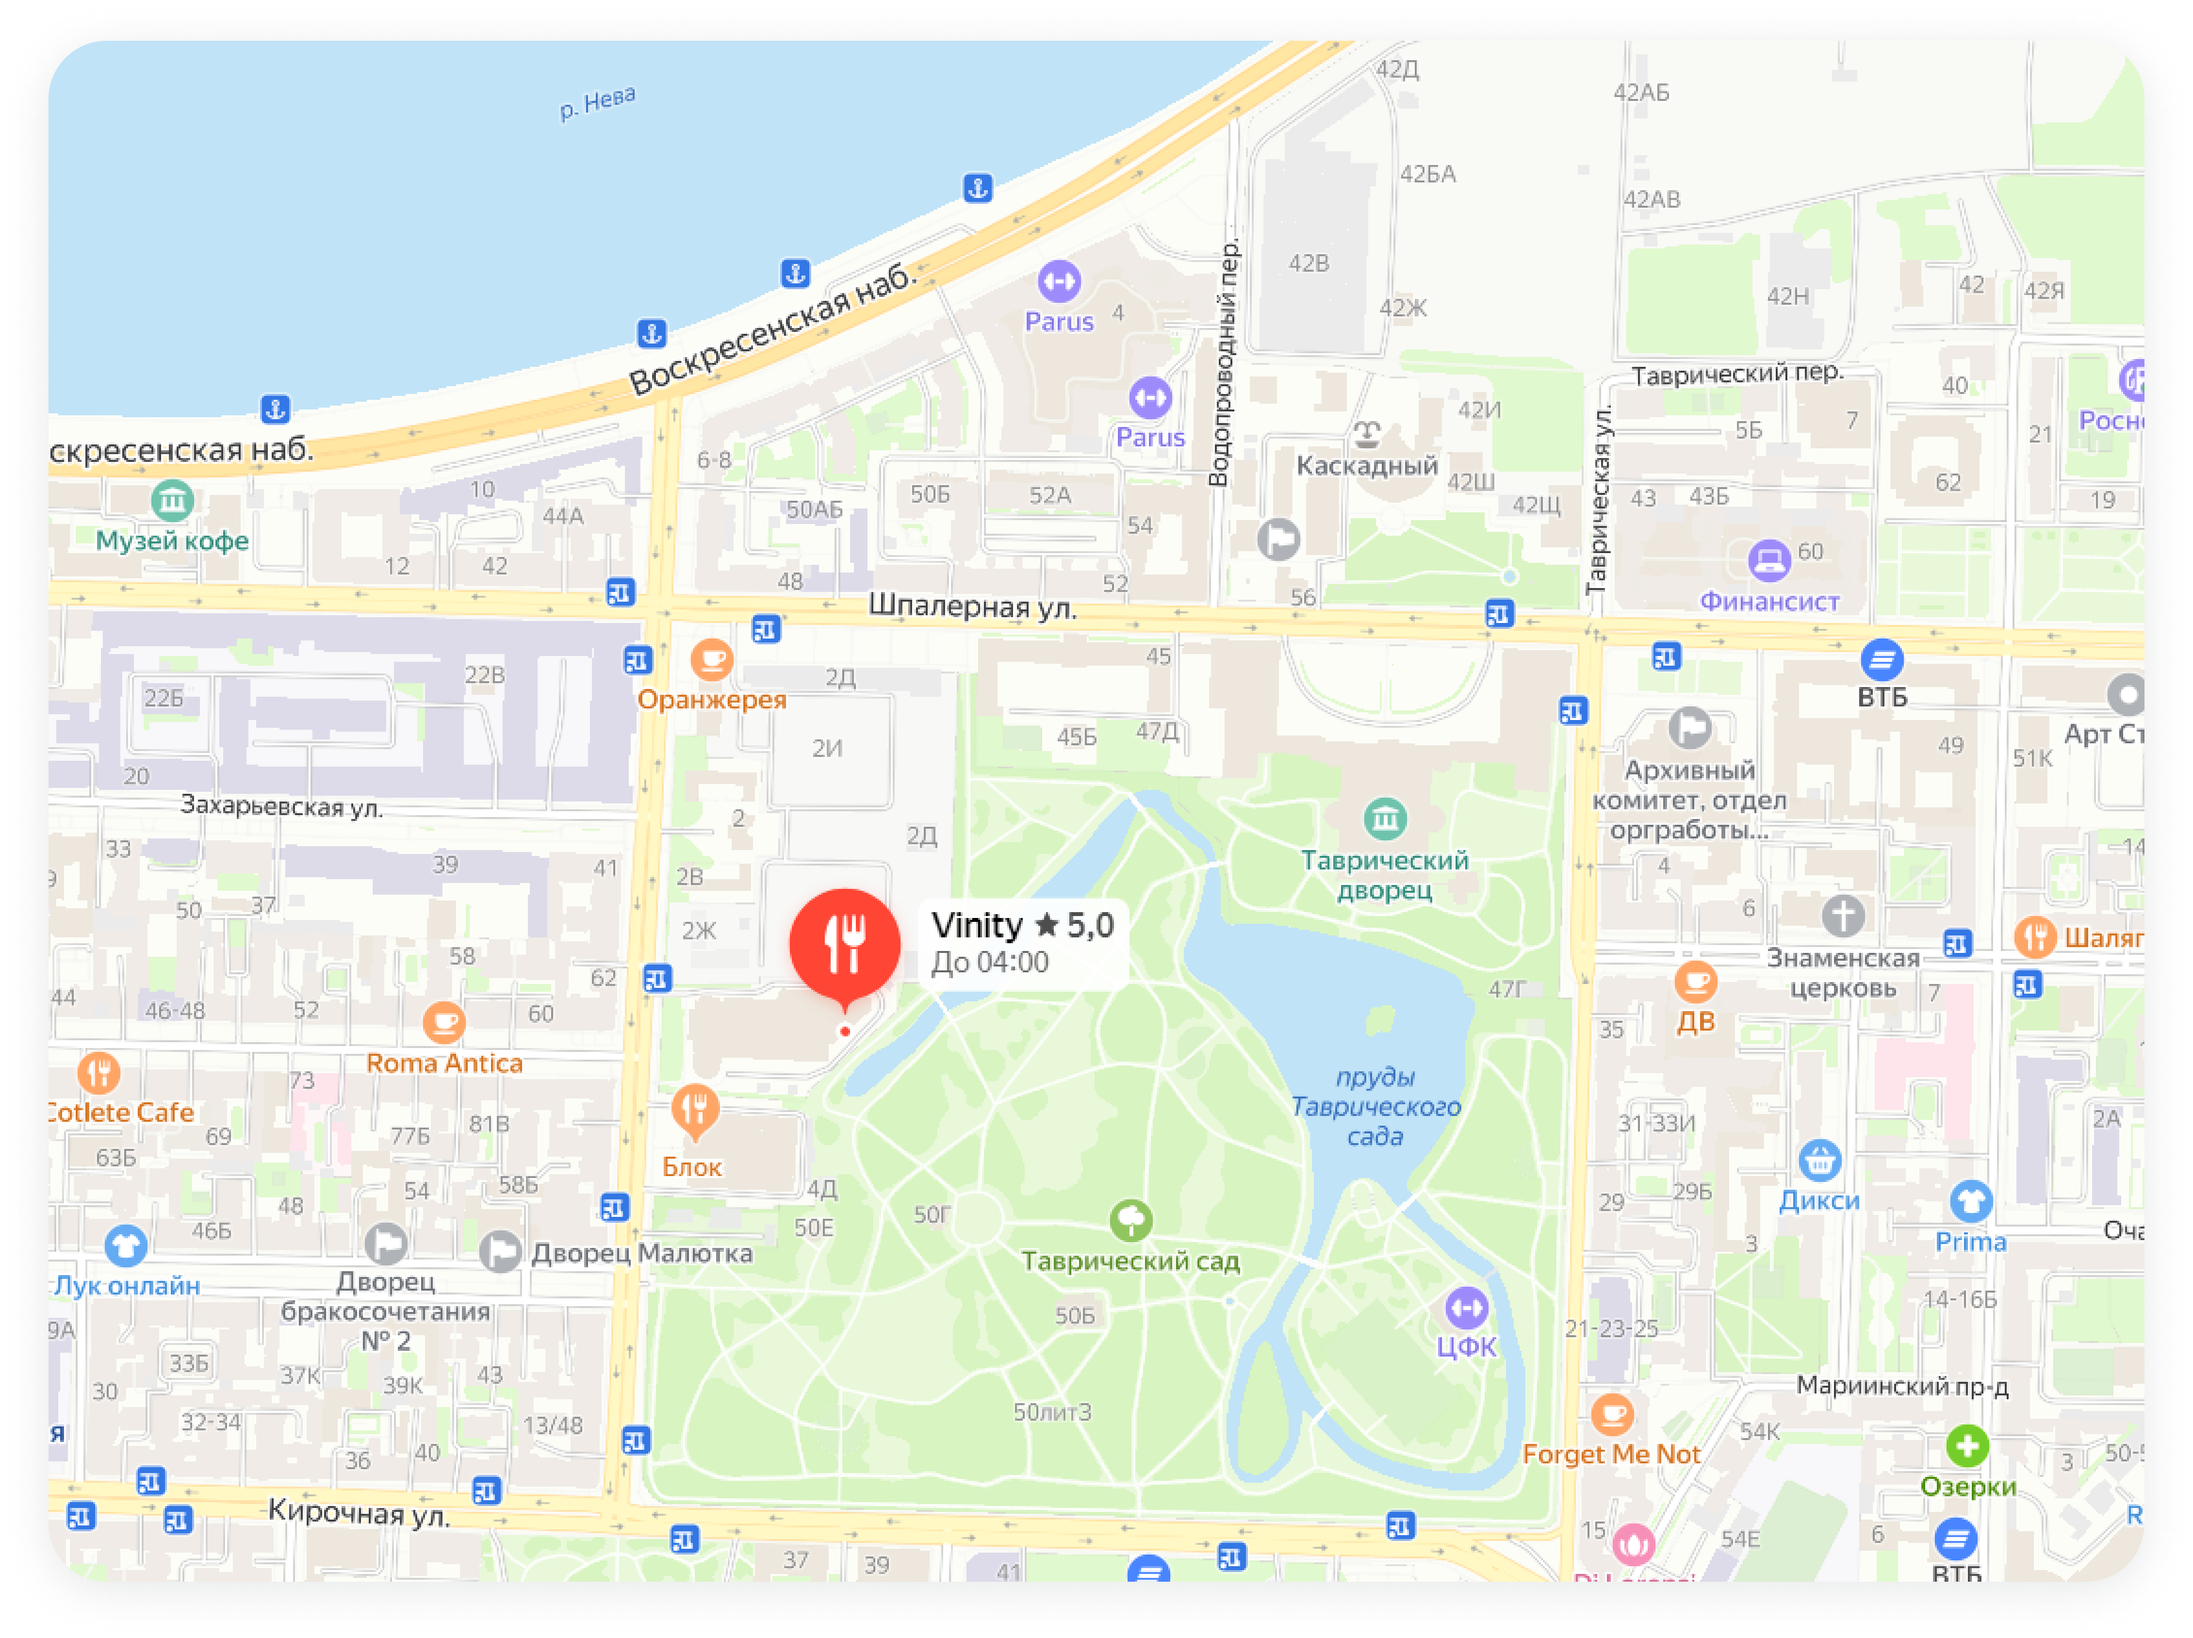
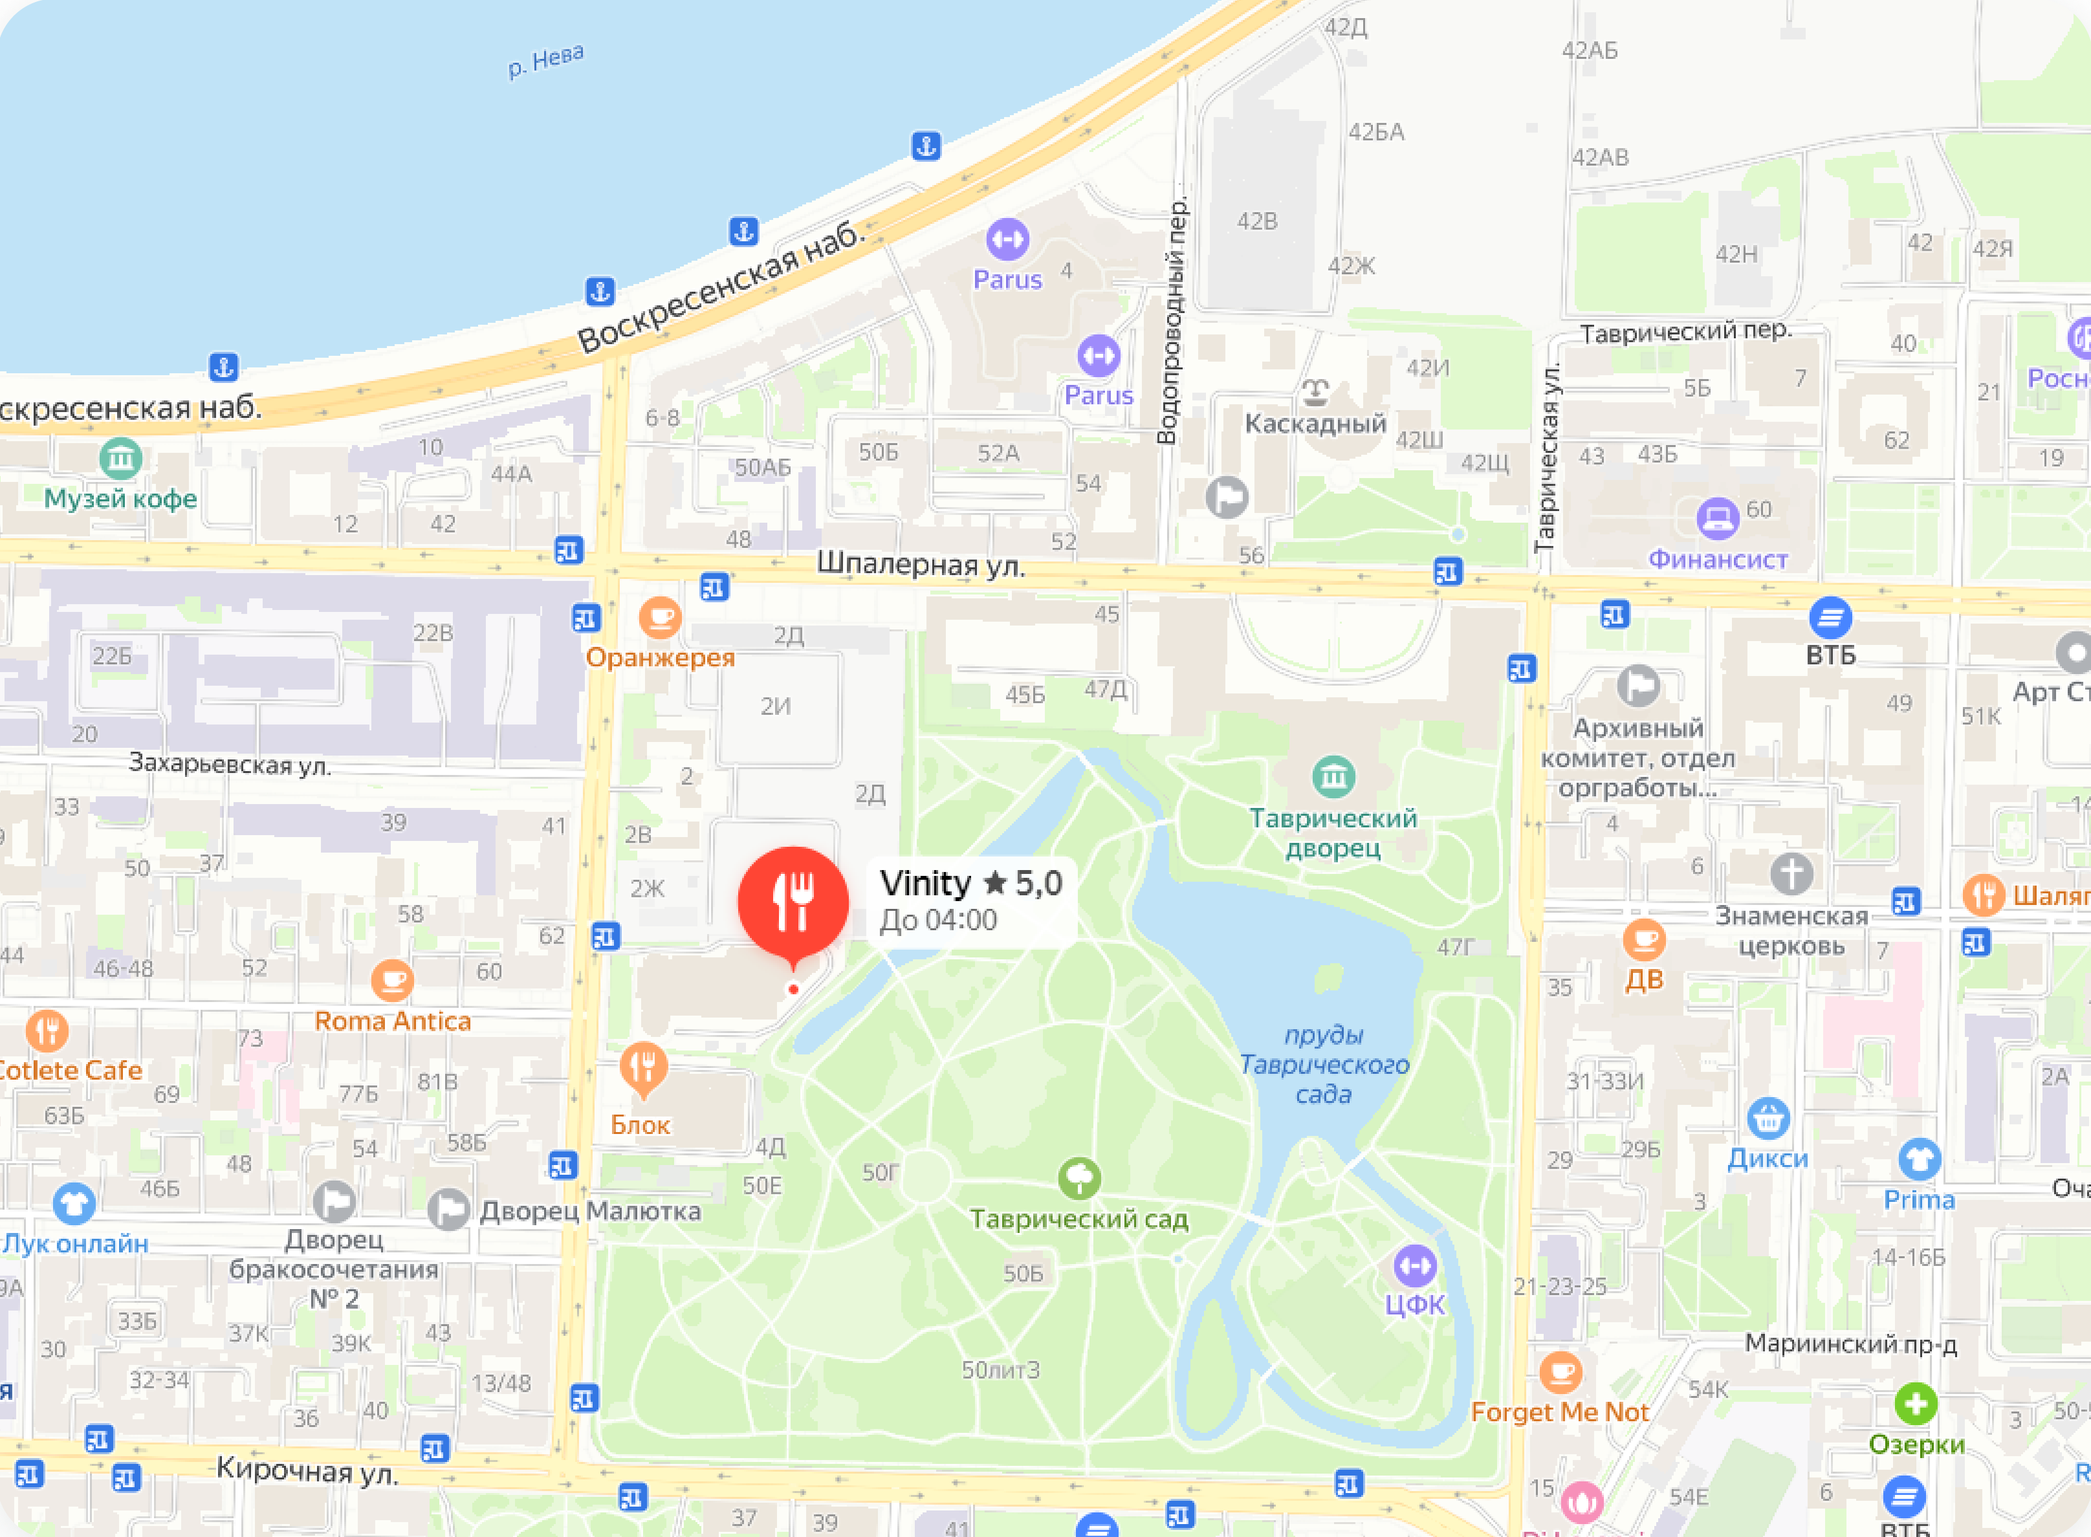
block 8 end

diff --git a/index.html b/index.html
@@ -186,7 +186,24 @@
     </div>
     <div class="content_block" id="block8">
         <div class="header">
-            <h3>мстория в датах</h3>
+            <h3>место проведения</h3>
+            <img class="header_background" src="imgs/abstract-green-watercolor-background 3 (1).png" alt="">
+        </div>
+        <div class="leaves">
+            <img id="leaves" src="imgs/Group 11.png" alt="">
+        </div>
+        <span>
+            Ресторан Vinity, ул. Потёмкинская, 4А <br>
+            <strong>Сбор гостей в 13:00</strong>
+        </span>
+            <img id="map"  src="imgs/map.png" alt="">
+            <img id="pink_flower"  src="imgs/heart 4.png" alt="">
+        
+        
+    </div>
+    <div class="content_block" id="block9">
+        <div class="header">
+            <h3>ваше присутствие</h3>
             <img class="header_background" src="imgs/abstract-green-watercolor-background 3 (1).png" alt="">
         </div>
     </div>

diff --git a/css/style_block8.css b/css/style_block8.css
@@ -1,0 +1,33 @@
+#block8{
+    margin-top: 7vh;
+}
+
+.leaves{
+    margin: 0;
+    width: 100%;
+    display: flex;
+    align-items: center;
+    justify-content: flex-end;
+}
+.leaves #leaves{
+    margin-left: auto;
+    transform: translateX(1vw);
+}
+#block8 span{
+    font-family: El Messiri;
+    font-size: 5vh;
+    font-weight: 400;
+    line-height: 7vh;
+    text-align: center;
+}
+
+#map{
+    margin: 0;
+    padding: 0;
+    margin-top: 7vh;
+    max-width: 56%;
+    border-radius: 30px;
+    opacity: 0px;
+    background-color: #F4F3F1;
+    box-shadow: 0px 4px 25px 0px #56666026;
+}
